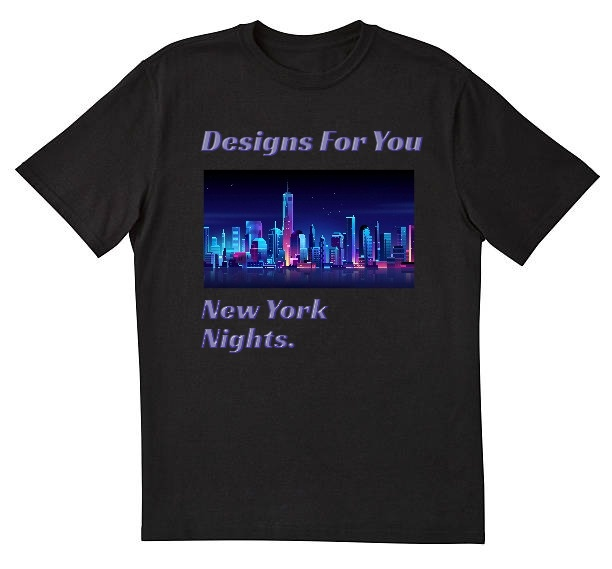
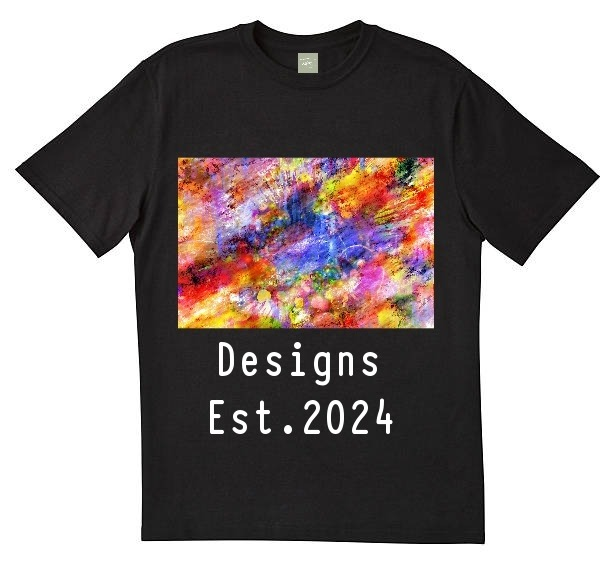
added shirt design photos

Changed region(s): [[0.2794, 0.2091, 0.7141, 0.7768], [0.3415, 0.6872, 0.4346, 0.7768], [0.4657, 0.0896, 0.5278, 0.1494]]

diff --git a/client/src/components/ProductCustomizer.jsx b/client/src/components/ProductCustomizer.jsx
@@ -3,28 +3,30 @@ import { CartContext } from "../components/CartContext"; // Import CartContext
 import '../styles.css';
 import wShirt1 from '../img/White Design 1 Shirt.jpg';
 import wShirt2 from '../img/White Design 2 Shirt.jpg';
-import wShirt3 from '../img/black shirt.jpg';
+import wShirt3 from '../img/White Design 3 Shirt.jpg';
 import bShirt1 from '../img/Black Design 1 Shirt.jpg';
 import bShirt2 from '../img/Black Design 2 Shirt.jpg';
+import bShirt3 from '../img/Black Design 3 Shirt.jpg';
 import canvas1 from '../img/Canvas Design 1.jpg';
 import canvas2 from '../img/Canvas Design 2.jpg';
 import canvas3 from '../img/Canvas Design 3.jpg';
 
 // Options and colors
 const options = [
-    { label: 'White Shirt Design 1', imgSrc: wShirt1, title: 'Cotton Round Shirt', color: 'white' },
-    { label: 'White Shirt Design 2', imgSrc: wShirt2, title: 'Cotton Round Shirt', color: 'white' },
-    { label: 'White Shirt Design 3', imgSrc: wShirt3, title: 'Cotton Round Shirt', color: 'white' },
-    { label: 'Black Shirt Design 1', imgSrc: bShirt1, title: 'Cotton Round Shirt', color: 'black' },
-    { label: 'Black Shirt Design 2', imgSrc: bShirt2, title: 'Cotton Round Shirt', color: 'black' },
-    { label:'Canvas Design 1', imgSrc: canvas1, title: 'Canvas Portrait', color: 'white' },
-    { label:'Canvas Design 2', imgSrc: canvas2, title: 'Canvas Portrait', color: 'white' },
-    { label:'Canvas Design 3', imgSrc: canvas3, title: 'Canvas Portrait', color: 'white' }
+    { label: 'Clothing Design 1', imgSrc: wShirt1, title: 'Cotton Round Shirt', color: 'White' },
+    { label: 'Clothing Design 2', imgSrc: wShirt2, title: 'Cotton Round Shirt', color: 'White' },
+    { label: 'Clothing Design 3', imgSrc: wShirt3, title: 'Cotton Round Shirt', color: 'White' },
+    { label: 'Clothing Design 1', imgSrc: bShirt1, title: 'Cotton Round Shirt', color: 'Black' },
+    { label: 'Clothing Design 2', imgSrc: bShirt2, title: 'Cotton Round Shirt', color: 'Black' },
+    { label: 'Clothing Design 3', imgSrc: bShirt3, title: 'Cotton Round Shirt', color: 'Black' },
+    { label:'Canvas Design 1', imgSrc: canvas1, title: 'Canvas Portrait', color: 'White' },
+    { label:'Canvas Design 2', imgSrc: canvas2, title: 'Canvas Portrait', color: 'White' },
+    { label:'Canvas Design 3', imgSrc: canvas3, title: 'Canvas Portrait', color: 'White' }
 ];
 
 const colors = [
-    { label: 'White', color: 'white' },
-    { label: 'Black', color: 'black' },
+    { label: 'White', color: 'White' },
+    { label: 'Black', color: 'Black' },
 ];
 
 const sizes = [

diff --git a/client/src/components/Cart.jsx b/client/src/components/Cart.jsx
@@ -26,6 +26,7 @@ const Cart = () => {
                                 <p>{item.description}</p>
                                 <p>Color: {item.color}</p>
                                 <p>Design: {item.label}</p>
+                                {item.size && <p>Size: {item.size}</p>}
                                 <p>Quantity: {item.quantity}</p>
                                 <p>Price: {item.price}</p>
                                 <button onClick={() => removeFromCart(index)}>Remove</button> {/* Remove item from cart */}
